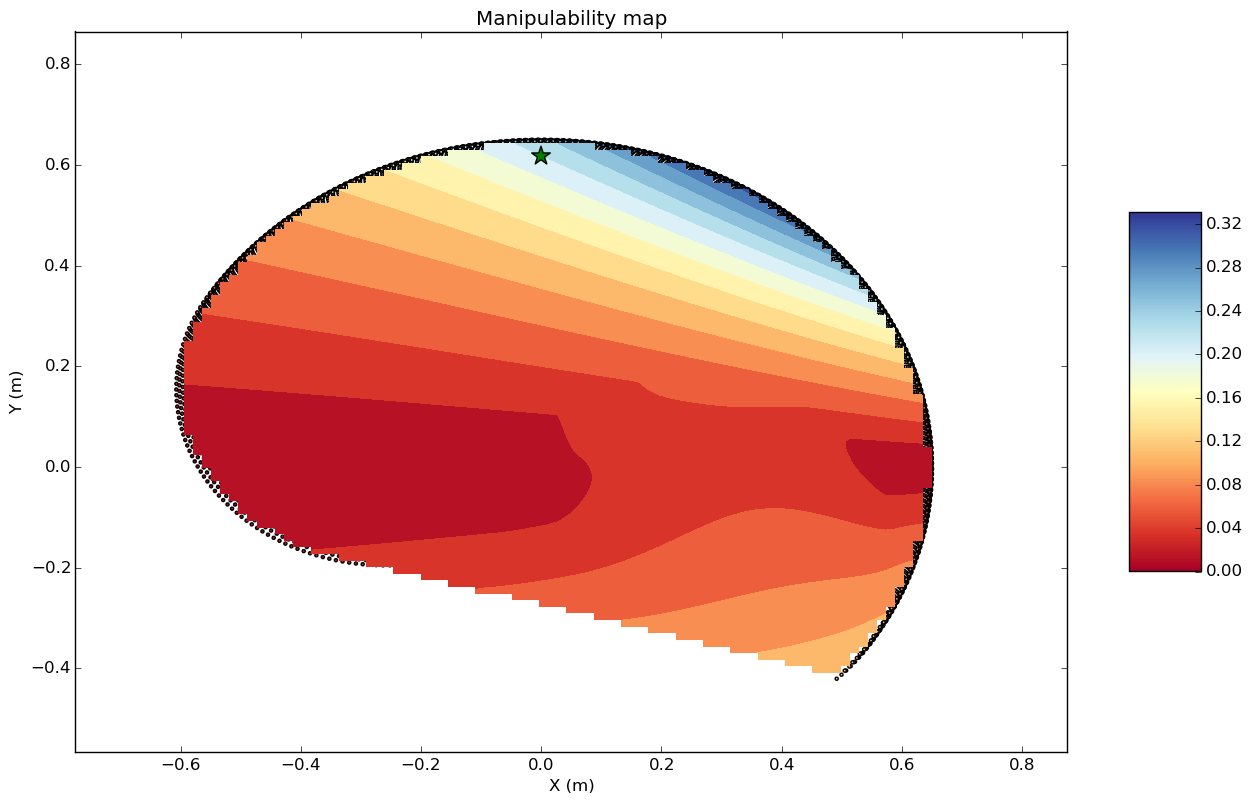
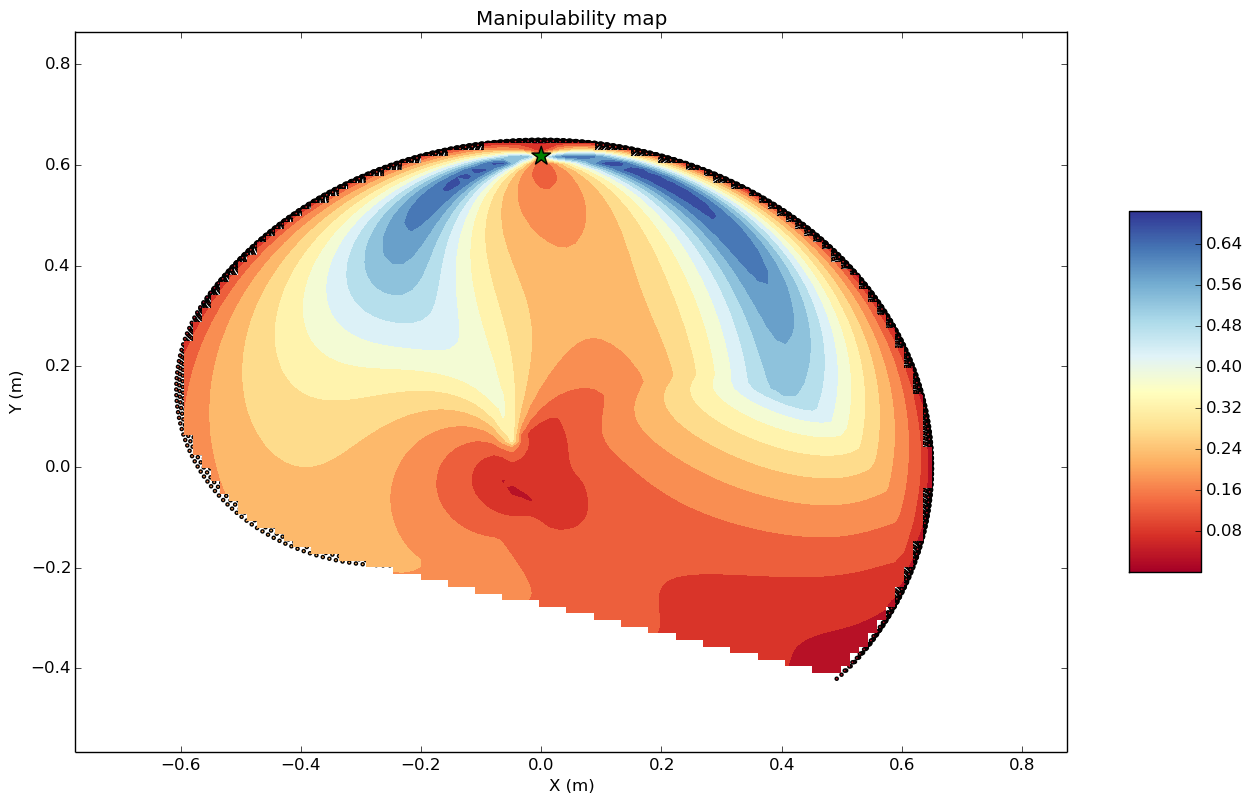
debugged manipulability

diff --git a/NeuralControl/ArmModel/Arm.py b/NeuralControl/ArmModel/Arm.py
@@ -146,6 +146,7 @@ class Arm:
        coordHand = self.mgdEndEffector(q)
 
        vdir =  np.array([target[0]-coordHand[0],target[1]-coordHand[1]])
+       vdir = vdir/np.linalg.norm(vdir)
        vdirt = np.transpose(vdir)
 
        root = np.dot(vdirt,np.dot(Minv,vdir))
@@ -157,15 +158,9 @@ class Arm:
        J = self.jacobian(q)
        K = np.transpose(J)
        M = np.dot(J,K)
+       det = np.linalg.det(M)
 
-       coordHand = self.mgdEndEffector(q)
-
-       vdir =  np.array([target[0]-coordHand[0],target[1]-coordHand[1]])
-       vdirt = np.transpose(vdir)
-
-       root = np.dot(np.dot(vdirt,M),vdir)
-
-       return root
+       return math.sqrt(det)
 
   def estimError(self,state, estimState):
         '''

diff --git a/NeuralControl/Plot/plotFunctions.py b/NeuralControl/Plot/plotFunctions.py
@@ -834,8 +834,8 @@ def plotManipulability():
     for el in pos:
         x.append(el[0])
         y.append(el[1])
-        point = [el[0],el[1]] 
-        manip = arm.manipulability1(point,target)
+        config = arm.mgi(el[0],el[1])
+        manip = arm.manipulability1(config,target)
         cost.append(manip)
 
     xi = np.linspace(-0.7,0.8,100)
@@ -876,8 +876,8 @@ def plotManipulability2():
     for el in pos:
         x.append(el[0])
         y.append(el[1])
-        point = [el[0],el[1]] 
-        manip = arm.manipulability2(point,target)
+        config = arm.mgi(el[0],el[1])
+        manip = arm.manipulability2(config,target)
         cost.append(manip)
 
     xi = np.linspace(-0.7,0.8,100)
